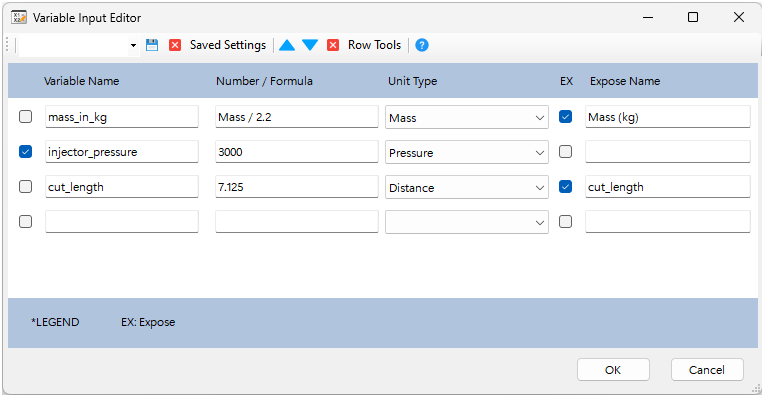
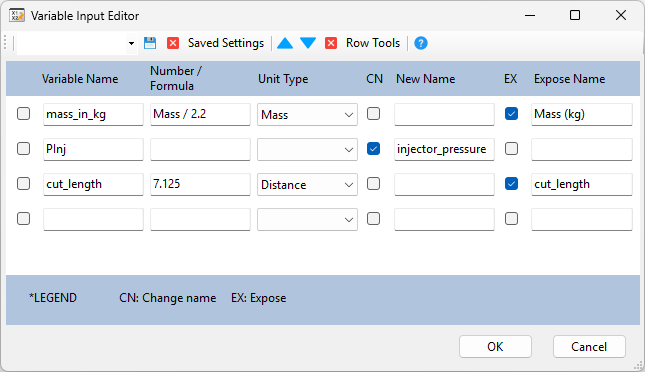
Edit variables: Add rename variable

diff --git a/HelpTopics.md b/HelpTopics.md
@@ -890,7 +890,7 @@ Note, Solid Edge presents exposed variables as Custom properties.  You can chang
 
 <details open><summary><h3 style="margin:0px; display:inline-block"><img src="My%20Project/media/spacer.png"><img src="Resources/TaskEditVariables.png"><img src="My%20Project/media/spacer.png">Edit variables</h3></summary>
 
-Adds, changes, and/or exposes variables. 
+Adds, changes, renames, and/or exposes variables. 
 
 ![EditVariables](My%20Project/media/task_edit_variables.png)
 
@@ -902,9 +902,11 @@ The Variable name is required.  There are restrictions on the name.  It cannot s
 
 If a variable on the list is not in the file, it can optionally be added.  Set the behavior on the Options panel. 
 
-The number/formula is not required if only exposing an existing variable, otherwise it is.  If a formula references a variable not in the file, the program will report an error.
+The number/formula is not required if only renaming or exposing an existing variable, otherwise it is.  If a formula references a variable not in the file, the program will report an error.
 
 You can use a file property in the formula.  Right-click the formula text box and select Insert Property to do so.  Note, the property is a static copy.  If it changes, this command needs to be run again to update the variable.  
+
+If renaming a variable, the new name has the same limitations as above. 
 
 If exposing a variable, the Expose name defaults to the variable name. You can optionally change it.  The Expose name does not have restrictions like the variable name. 
 
@@ -1222,6 +1224,8 @@ If you use more than one printer, use the `Edit task list` function on the **Tas
 You assign sheet sizes to a printer with the `Select Sheets` button. Print jobs are routed on a per-sheet basis. So if a drawing has some sheets that need a printer and others that need a plotter, it will do what you expect. 
 
 ![Printer_Setup](My%20Project/media/sheet_selector.png)
+
+If you select the custom size option from the sheet selector, you need to supply a range of sheet sizes to accept. 
 
 This command may not work with PDF printers. Try the Save As PDF command instead. 
 

diff --git a/README.md b/README.md
@@ -890,7 +890,7 @@ Note, Solid Edge presents exposed variables as Custom properties.  You can chang
 
 <details><summary><h3 style="margin:0px; display:inline-block"><img src="My%20Project/media/spacer.png"><img src="Resources/TaskEditVariables.png"><img src="My%20Project/media/spacer.png">Edit variables</h3></summary>
 
-Adds, changes, and/or exposes variables. 
+Adds, changes, renames, and/or exposes variables. 
 
 ![EditVariables](My%20Project/media/task_edit_variables.png)
 
@@ -902,9 +902,11 @@ The Variable name is required.  There are restrictions on the name.  It cannot s
 
 If a variable on the list is not in the file, it can optionally be added.  Set the behavior on the Options panel. 
 
-The number/formula is not required if only exposing an existing variable, otherwise it is.  If a formula references a variable not in the file, the program will report an error.
+The number/formula is not required if only renaming or exposing an existing variable, otherwise it is.  If a formula references a variable not in the file, the program will report an error.
 
 You can use a file property in the formula.  Right-click the formula text box and select Insert Property to do so.  Note, the property is a static copy.  If it changes, this command needs to be run again to update the variable.  
+
+If renaming a variable, the new name has the same limitations as above. 
 
 If exposing a variable, the Expose name defaults to the variable name. You can optionally change it.  The Expose name does not have restrictions like the variable name. 
 
@@ -1222,6 +1224,8 @@ If you use more than one printer, use the `Edit task list` function on the **Tas
 You assign sheet sizes to a printer with the `Select Sheets` button. Print jobs are routed on a per-sheet basis. So if a drawing has some sheets that need a printer and others that need a plotter, it will do what you expect. 
 
 ![Printer_Setup](My%20Project/media/sheet_selector.png)
+
+If you select the custom size option from the sheet selector, you need to supply a range of sheet sizes to accept. 
 
 This command may not work with PDF printers. Try the Save As PDF command instead. 
 

diff --git a/release_notes.md b/release_notes.md
@@ -56,10 +56,11 @@ See the [<ins>**File Selection Help Topic**</ins>](https://github.com/rmcanany/S
 ### Other
 
 - Fixed a regression with Set Document Status (Thank you **@TeeVar!**).
-- Fixed an issue adding a new property with the `Edit Properties` command (Thank you **@[Robin BIomberg]** and **@Monostre!**)
+- Fixed a regression adding a new property with the `Edit Properties` command (Thank you **@[Robin BIomberg]** and **@Monostre!**)
 - Fixed an issue with `Add from Team Center` where the `ItemID` variable name was hard-coded in the program (Thank you **@sjim99!**).  It is now entered by the user on the Settings page.
 - Added an option, `Allow partial success` to the `Break Links` command (Thank you **john.matthews3452!**).  Previously any error caused the file to not be saved.
 - Fixed an issue with `Update Drawing Styles from Template` where Table text was not updated correctly (Thank you **@robbin70!**).  Changed the processing order so that dependent objects are now processed after their dependencies.
+- Added the ability to print custom size drawing sheets (Thank you **@ih0nza!**).  If selected, you need to supply a range of sheet sizes to accept.
 
 
 
